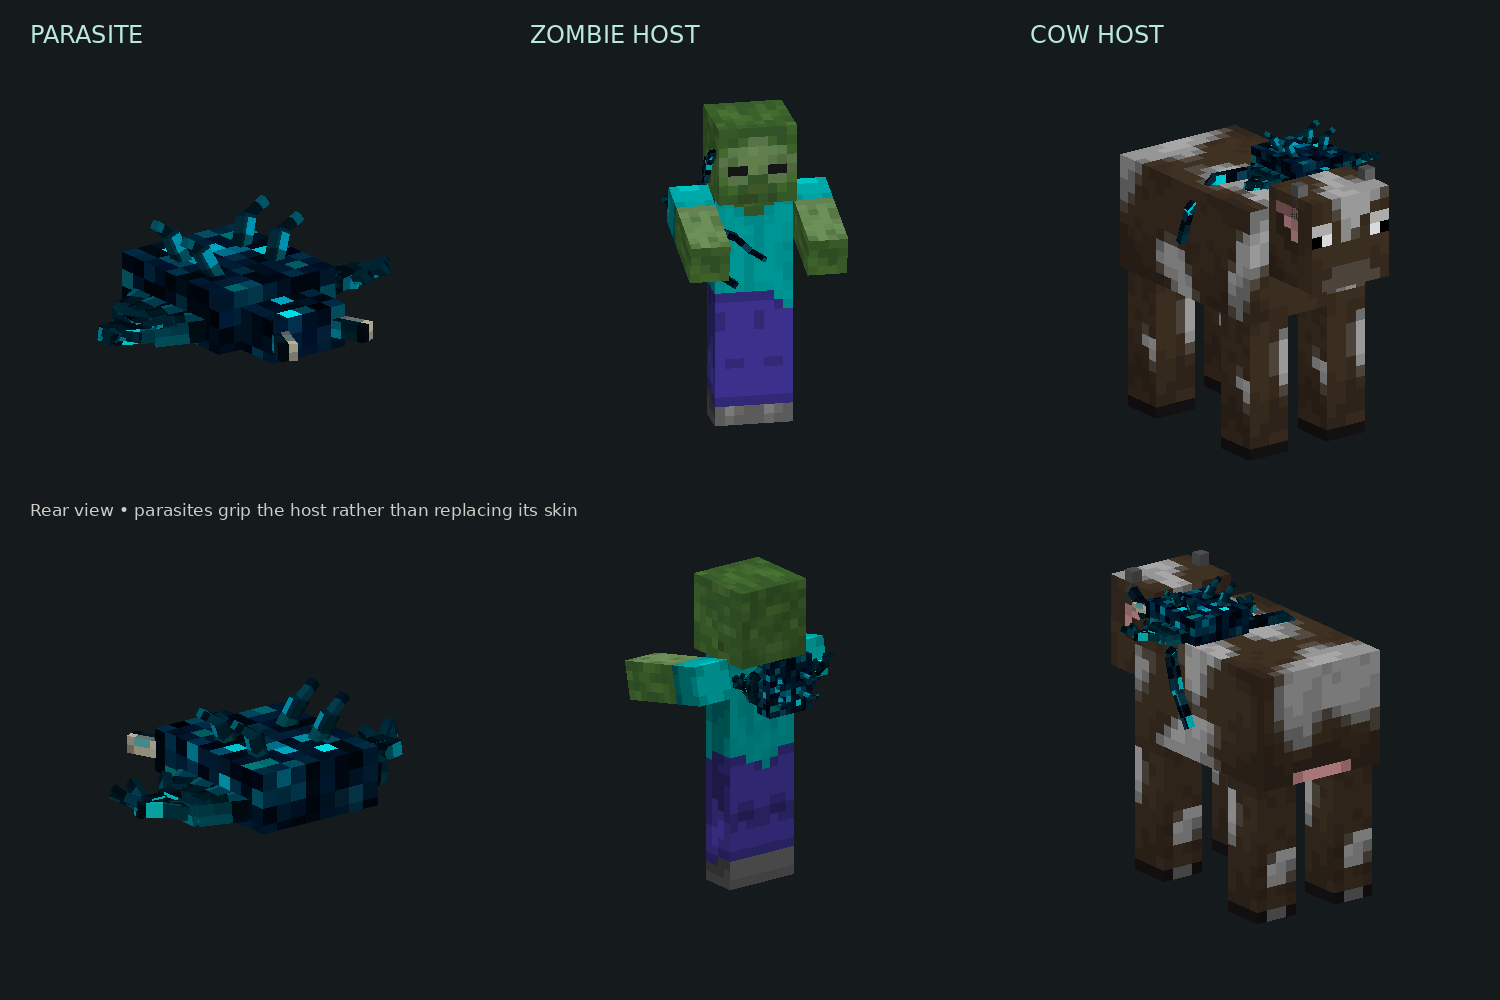
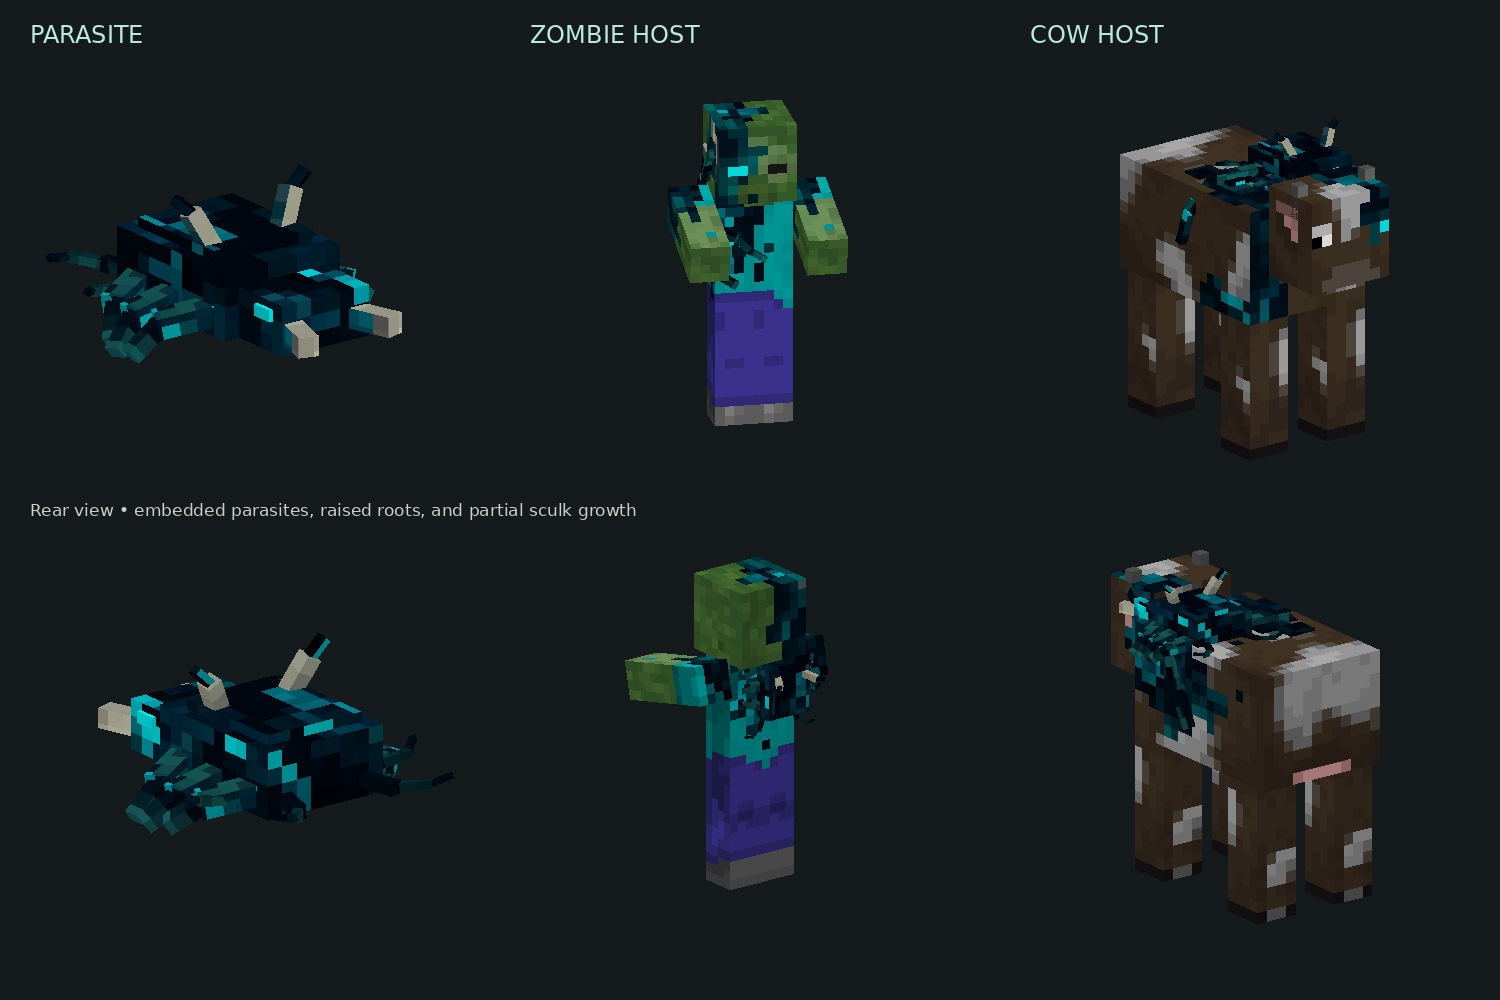
Finish fused parasite visuals, baby proportions, and reviewed model previews

diff --git a/src/main/java/com/example/examplemod/client/SkulkAttachmentLayer.java b/src/main/java/com/example/examplemod/client/SkulkAttachmentLayer.java
@@ -14,11 +14,16 @@ import net.minecraft.resources.Identifier;
 public class SkulkAttachmentLayer<S extends LivingEntityRenderState, M extends EntityModel<? super S>> extends RenderLayer<S, M> {
     private static final Identifier TEXTURE = Identifier.fromNamespaceAndPath("examplemod", "textures/entity/skulk_parasite.png");
     private final SkulkAttachmentModel attachment;
-    private final boolean cow;
+    private final Identifier adultGrowthTexture;
+    private final Identifier babyGrowthTexture;
 
     public SkulkAttachmentLayer(RenderLayerParent<S, M> parent, EntityRendererProvider.Context context, boolean cow) {
         super(parent);
-        this.cow = cow;
+        String species = cow ? "cow" : "zombie";
+        adultGrowthTexture = Identifier.fromNamespaceAndPath("examplemod",
+                "textures/entity/skulk_" + species + "_growth.png");
+        babyGrowthTexture = Identifier.fromNamespaceAndPath("examplemod",
+                "textures/entity/skulk_" + species + "_baby_growth.png");
         attachment = new SkulkAttachmentModel(context.bakeLayer(cow
                 ? SkulkAttachmentModel.COW_LAYER : SkulkAttachmentModel.ZOMBIE_LAYER), cow);
     }
@@ -29,9 +34,7 @@ public class SkulkAttachmentLayer<S extends LivingEntityRenderState, M extends E
         if (state.isInvisible) return;
         M host = getParentModel();
         host.setupAnim(state);
-        String species = cow ? "cow" : "zombie";
-        Identifier growth = Identifier.fromNamespaceAndPath("examplemod", "textures/entity/skulk_"
-                + species + (state.isBaby ? "_baby" : "") + "_growth.png");
+        Identifier growth = state.isBaby ? babyGrowthTexture : adultGrowthTexture;
         collector.submitModel(host, state, poseStack, host.renderType(growth),
                 light, LivingEntityRenderer.getOverlayCoords(state, 0), -1);
         var pose = new SkulkAttachmentState();

diff --git a/src/main/java/com/example/examplemod/client/SkulkAttachmentModel.java b/src/main/java/com/example/examplemod/client/SkulkAttachmentModel.java
@@ -94,6 +94,11 @@ public class SkulkAttachmentModel extends EntityModel<SkulkAttachmentState> {
             headGrowth.y = -1.569F;
             headGrowth.z = 0.1667F;
             headGrowth.zScale = 5.0F / 6.0F;
+        } else if (state.isBaby) {
+            // Baby zombies center their shorter torso around the body pivot.
+            bodyGrowth.y = -2.5F;
+            bodyGrowth.yScale = 5.0F / 12.0F;
+            headGrowth.y = -0.25F;
         }
         parasite.xScale = parasite.yScale = parasite.zScale = cow ? 0.7F : 0.65F;
         SkulkParasiteGeometry.animate(parasite, state.ageInTicks * 0.09F, 0.06F);

diff --git a/README.md b/README.md
@@ -123,6 +123,8 @@ follow the host's body and head poses; separate growth masks fit baby skins.
 
 [Watch the tentacle animation preview](docs/visuals/skulk-parasite-tentacles.gif)
 
+[Inspect the baby host skins and fitted attachments](docs/visuals/skulk-baby-hosts-preview.png)
+
 For an in-game visual check, infect an adult zombie and cow, walk around to see
 the fused parasite and growth from the front and back, and compare against uninfected
 mobs. Check a baby host and an armored zombie as well. The original skins come
